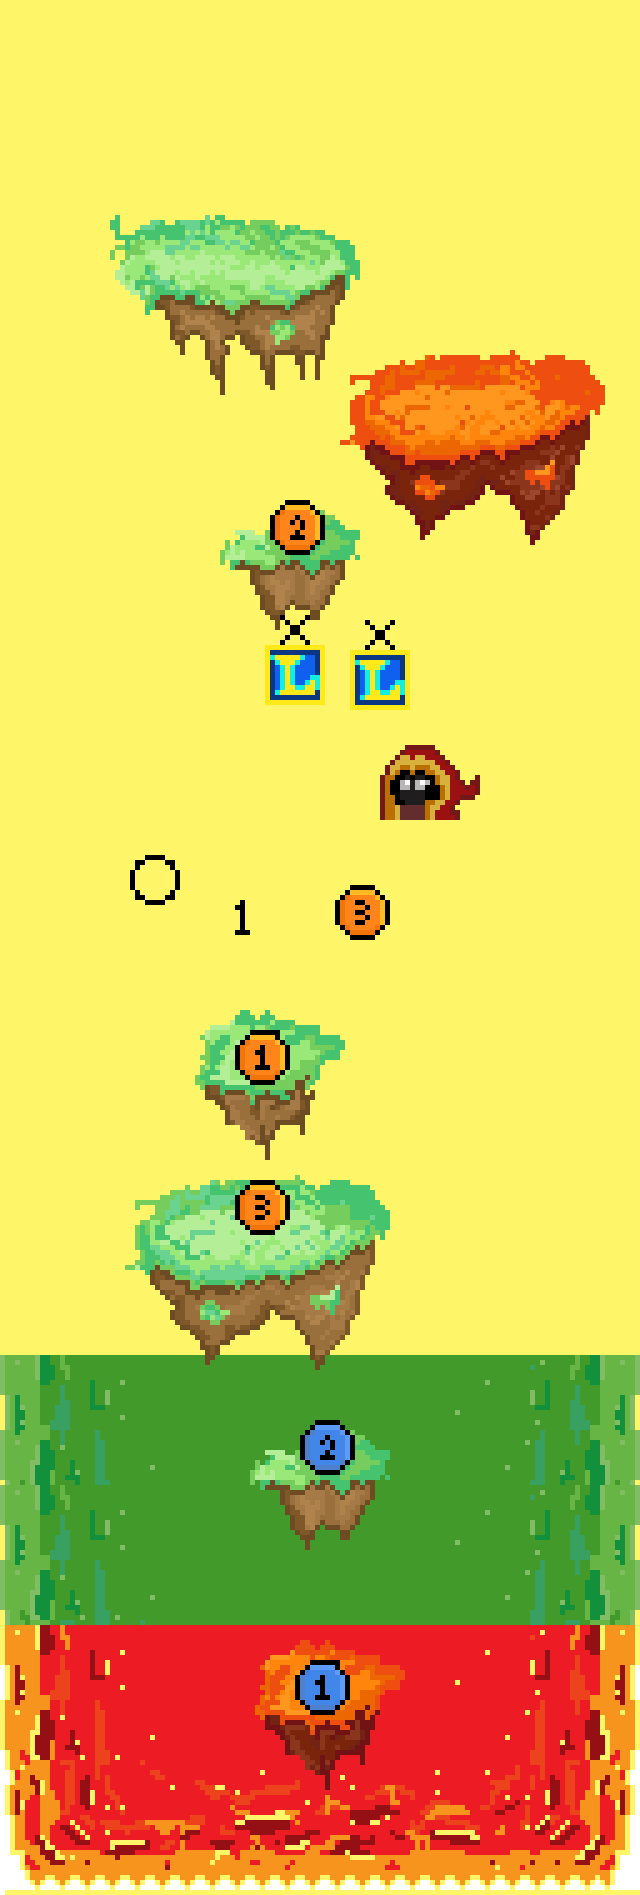
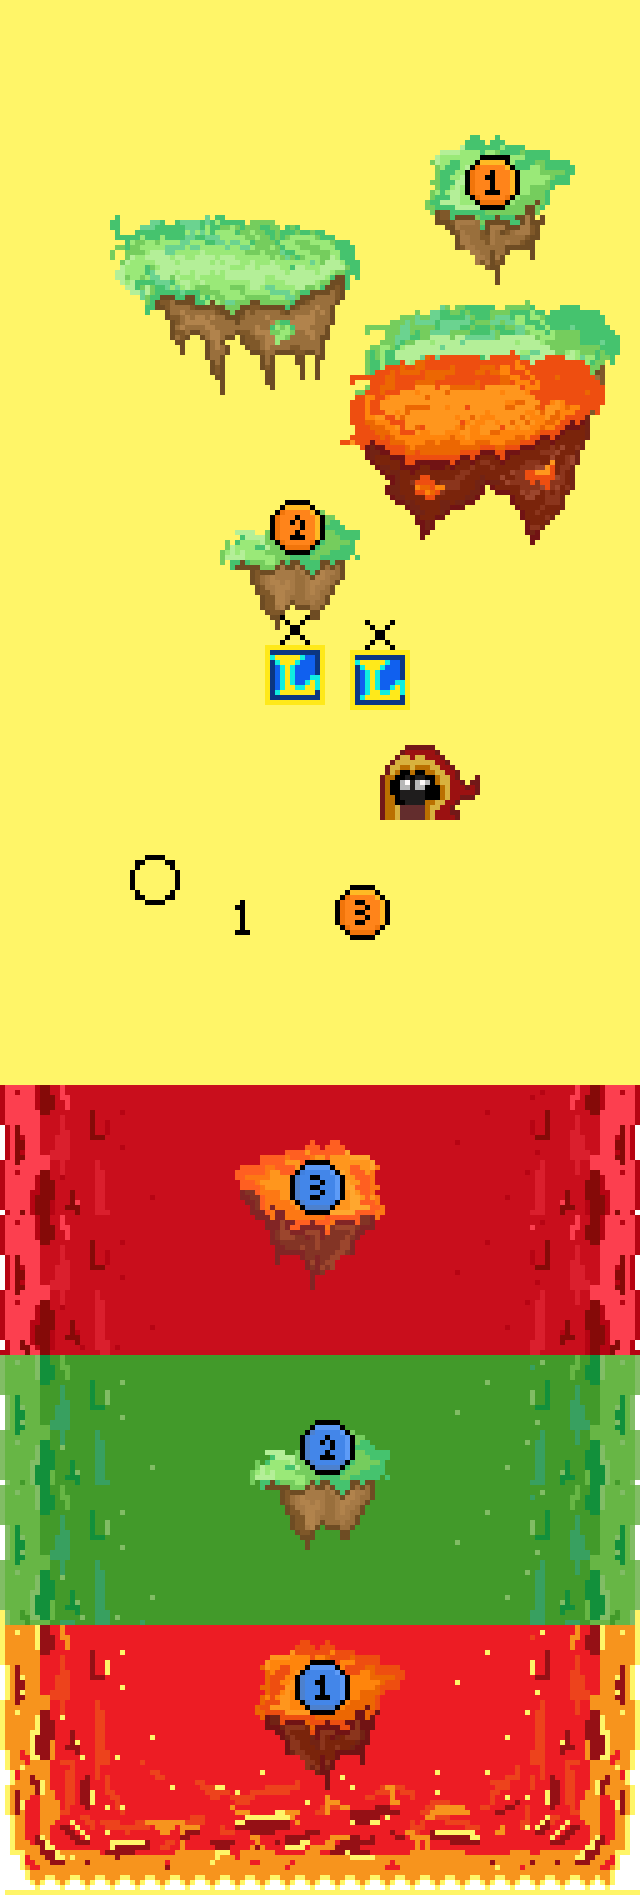
Added Darius class, animations and images

diff --git a/Classes/WorldMap.cpp b/Classes/WorldMap.cpp
@@ -4,6 +4,7 @@
 #include "Ashe.h"
 #include "Garen.h"
 #include "Cassiopeia.h"
+#include "Darius.h"
 Scene* WorldMap::createScene()
 {
 	auto scene = Scene::create();
@@ -43,8 +44,11 @@ void WorldMap::addIslandsToScrollView()
 	level1->setPosition(Vec2(0, -380));
 	MenuItemImage* level2 = MenuItemImage::create("worldMap/islandLevel2.png", "worldMap/islandLevel2.png", CC_CALLBACK_0(WorldMap::startLevelWithHeroesId, this, 1, allyId));
 	level2->setPosition(Vec2(0, -155));
+	MenuItemImage* level3 = MenuItemImage::create("worldMap/islandLevel3.png", "worldMap/islandLevel3.png", CC_CALLBACK_0(WorldMap::startLevelWithHeroesId, this, 2, allyId));
+	level3->setPosition(Vec2(0, 120));
 	Menu* menu = Menu::create(level1, NULL);
 	menu->addChild(level2);
+	menu->addChild(level3);
 	scrollView->addChild(menu, 1);
 }
 void WorldMap::startLevelWithHeroesId(short enemyId, short allyId)
@@ -62,6 +66,7 @@ void WorldMap::prepareEnemyMap()
 {
 	mapEnemy["Brand"] = &createEnemyHeroInstance<Brand>;
 	mapEnemy["Cassiopeia"] = &createEnemyHeroInstance<Cassiopeia>;
+	mapEnemy["Darius"] = &createEnemyHeroInstance<Darius>;
 }
 template <typename T>
 AllyHero* createAllyHeroInstance() { return new T; }

diff --git a/Classes/Darius.cpp b/Classes/Darius.cpp
@@ -1,0 +1,33 @@
+#include "Darius.h"
+Darius::Darius()
+{
+	this->setName("darius");
+	this->setSprite(name);
+	this->strength = 6;
+	this->health = 20;
+	this->defaultPosition = Vec2(290, 450);
+	sprite->setPosition(defaultPosition);
+	this->firstSpellCooldown = 5.0;
+	this->firstSpellCooldownConst = 5.0;
+	this->firstSpellTimer = 0.0;
+	this->timeToDealDamageInFirstSpell = 1.4;
+	this->firstSpellNumberOfFrames = 7;
+	this->firstSpellFrameDuration = 0.2f;
+	this->walkFrameDuration = 0.4f;
+	this->walkNumberOfFrames = 3;
+}
+void Darius::castFirstSpell()
+{
+	stopWalkAnimate();
+	initAnimates();
+	auto node = Director::getInstance()->getRunningScene()->getChildByName("levelNode");
+	auto heroSprite = node->getChildByName("heroSprite");
+	auto seq = Sequence::create(firstSpellAnimate, RemoveSelf::create(), CallFunc::create([node, this]() {
+		setSprite(name);
+		node->addChild(sprite);
+		sprite->setPosition(defaultPosition);
+		sprite->setName("heroSprite");
+		runWalkAnimate();
+		}), NULL);
+	heroSprite->runAction(seq);
+}

diff --git a/Classes/WorldMap.h b/Classes/WorldMap.h
@@ -27,6 +27,6 @@ private:
 	void addIslandsToScrollView();
 	short allyId, enemyId;
 	std::string alliesTab[4] = { "Ryze", "Ashe", "Garen", "Twisted_Fate" };
-	std::string enemiesTab[4] = { "Brand", "Cassiopeia", "", "" };
+	std::string enemiesTab[4] = { "Brand", "Cassiopeia", "Darius", "" };
 };
 #endif

diff --git a/Classes/Darius.h b/Classes/Darius.h
@@ -1,0 +1,10 @@
+#ifndef __DARIUS_H__
+#define __DARIUS_H__
+#include "EnemyHero.h"
+class Darius : public EnemyHero
+{
+public:
+	Darius();
+	void castFirstSpell();
+};
+#endif
